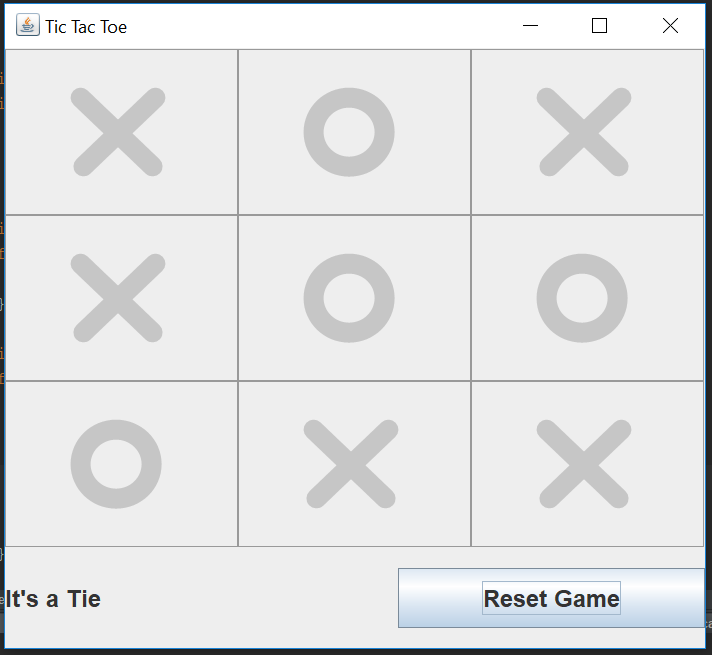
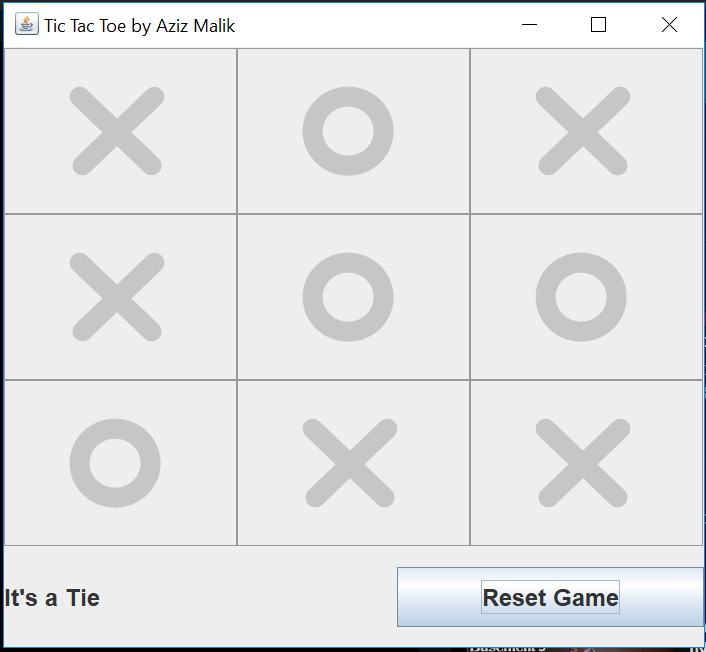
Add files via upload

diff --git a/View.java b/View.java
@@ -28,7 +28,7 @@ class View extends JFrame {
     JButton reset;
 
     public View(Model model) {
-        super("Tic Tac Toe");
+        super("Tic Tac Toe by Aziz Malik");
         setDefaultCloseOperation(JFrame.EXIT_ON_CLOSE);
         //Reset Button
         Font font1 = new Font("SansSerif", Font.BOLD, 24);
